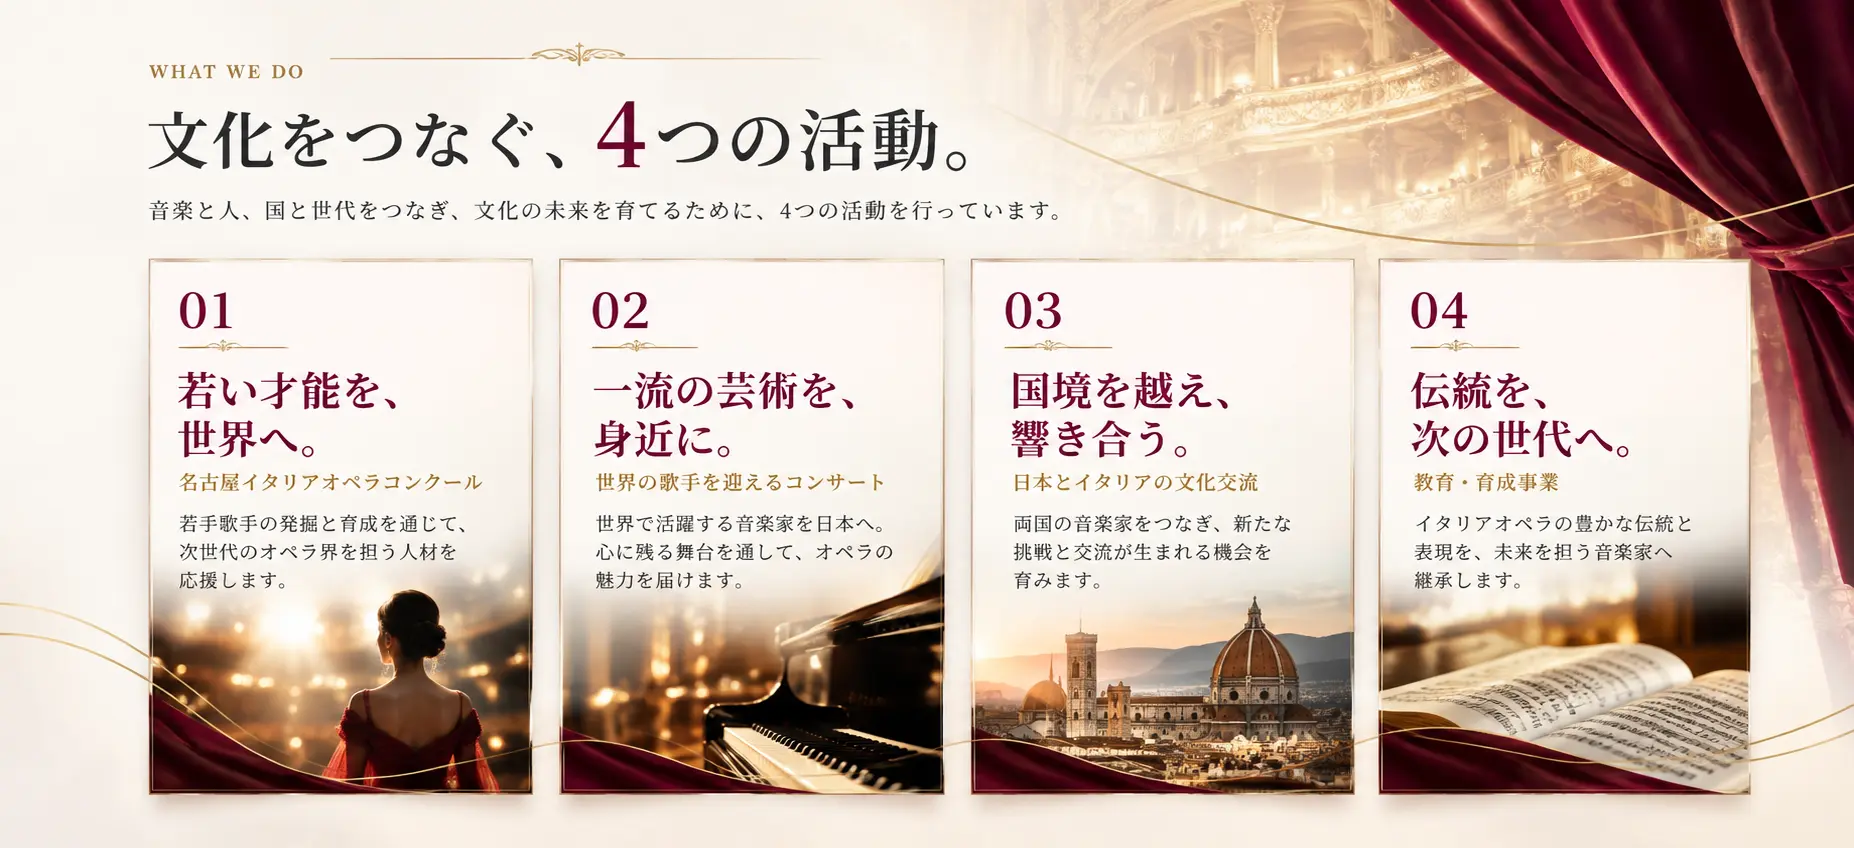
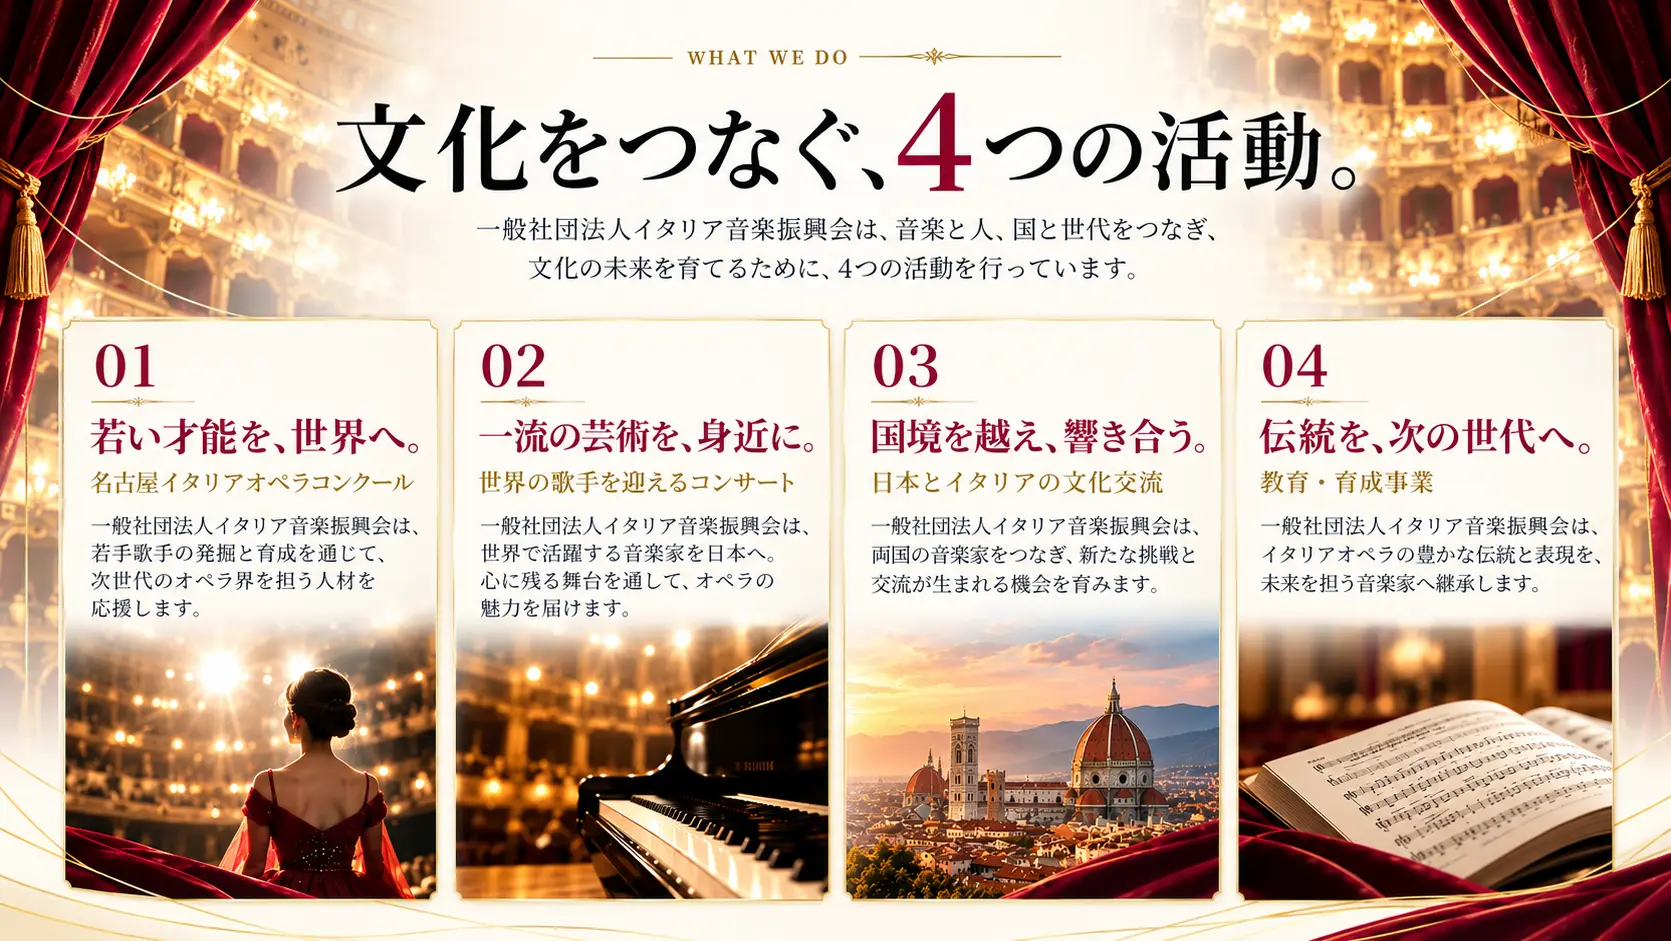
Publish initial design preview

diff --git a/index.html b/index.html
@@ -4,7 +4,7 @@
 <header><a class="brand" href="#"><span class="emblem">I</span><span><small>一般社団法人</small>イタリア音楽振興会</span></a><nav aria-label="メインナビゲーション"><a href="#vision">私たちの想い</a><a href="#concert">特別公演</a><a href="#partners">協賛プラン</a><a class="nav-cta" href="#contact">お問い合わせ <span>↗</span></a></nav></header>
 <main><section class="poster-hero" aria-labelledby="hero-title"><h1 id="hero-title" class="sr-only">企業文化支援パートナー募集｜第4回名古屋イタリアオペラコンクール関連特別公演 ベルカント・オペラ ガラコンサート</h1><picture><source media="(min-width: 768px)" srcset="assets/fv-desktop.webp?v=33" width="1672" height="941"><img src="assets/fv-mobile.webp?v=33" width="1122" height="1402" fetchpriority="high" alt="企業文化支援パートナー募集。第4回名古屋イタリアオペラコンクール関連特別公演、ベルカント・オペラ ガラコンサート。2027年2月23日（火・祝）、しらかわホール（名古屋）。"></picture></section><div class="hero-actions"><a class="button burgundy" href="#partners">協賛プランを見る <span>↓</span></a><a class="button outline" href="#contact">協賛について相談する <span>↗</span></a></div><section id="concert" class="concert"><div class="wrap concert-grid"><div class="concert-editorial"><figure class="concert-photo"><img src="assets/gallery-01.webp" width="1600" height="1067" alt="過去の活動での演奏風景"><figcaption>過去の公演より</figcaption></figure><div class="concert-photo-caption"><p class="eyebrow">CULTURE CONNECTS US</p><p>この舞台の感動を、<br><strong>ともに。</strong></p></div><figure class="concert-second-photo"><img src="assets/gallery-02.webp" width="1200" height="900" loading="lazy" alt="ピアノ伴奏とともに歌う、過去の演奏風景"><figcaption>過去の活動より</figcaption></figure></div><div class="concert-copy"><p class="eyebrow">THE SPECIAL STAGE</p><p class="kicker"><span>第4回名古屋イタリアオペラコンクール</span><span>関連特別公演</span></p><h2 class="concert-title"><span>ベルカント・オペラ</span><span>ガラコンサート</span></h2><div class="concert-introduction"><p class="concert-catch"><span>世界を魅了するディーヴァ、来日</span><span>ベルカントに出逢う、特別な一夜</span></p><div class="concert-description"><p>世界的ソプラノ歌手であり、名古屋イタリアオペラコンクールの審査員を務めるデジレ・ランカトーレを迎え、ベルカントの真髄をお届けします。</p><p>美しい旋律と卓越した歌唱技術が織りなす、イタリアオペラの華麗な世界をどうぞご堪能ください。</p><p>さらに、同コンクールの入賞者たちも、しらかわホールの舞台で歌声を披露。世界で活躍する歌姫と未来を担う若き才能が彩る、特別なガラコンサートです。</p></div></div><dl class="event-details"><div><dt>開催日</dt><dd><span class="event-main">2027年2月23日</span><small>（火・祝）</small></dd></div><div><dt>会場</dt><dd><span class="event-main">しらかわホール</span><small>（名古屋）</small></dd></div></dl><a class="text-link" href="https://shirakawahall.jp/" target="_blank" rel="noopener">会場の公式サイトを見る ↗</a></div></div></section>
 <section id="artist" class="artist-profile wrap" aria-labelledby="artist-title"><figure class="artist-portrait"><img src="assets/desiree-rancatore.webp" width="493" height="649" loading="lazy" alt="ソプラノ デジレ・ランカトーレのポートレート"></figure><div class="artist-biography"><p class="eyebrow">ARTIST PROFILE</p><p class="artist-voice">ソプラノ</p><h2 id="artist-title">デジレ・ランカトーレ</h2><div class="artist-bio-text"><p>イタリア、パレルモ生まれ。18歳でザルツブルク音楽祭「フィガロの結婚」にてオペラ・デビュー。その後、英国ロイヤル・オペラ、ウィーン国立歌劇場、ローマ歌劇場、チューリッヒ歌劇場、ミラノ・スカラ座等、ヨーロッパ主要歌劇場に招かれる。</p><p>パレルモ・マッシモ劇場、トリエステ・ヴェルディ劇場、ボローニャ歌劇場などで来日している。可憐な容姿とコロラトゥーラテクニックで聴衆を魅了してきたが、声の成熟とともに、ノルマなど劇的な役柄にもレパートリーを広げている。</p><p>また近年では、指導者としても熱心で、多くの優秀なオペラ歌手を輩出している。</p></div></div></section><section class="intro wrap" id="vision"><div><p class="eyebrow">OUR VISION</p><h2>一夜の感動を、<br>未来へ続く力に。</h2></div><div class="intro-copy"><p class="lead">音楽を通じて、人と文化をつなぐ。</p><p>私たちが目指すのは、一度のコンサートを成功させることだけではありません。若い音楽家が世界へ羽ばたく機会をつくり、世界で活躍する音楽家を日本に紹介し、イタリアオペラの魅力を次世代へ伝えていくことです。</p><p>企業の皆様のご支援が、音楽家の未来を拓き、日伊の文化交流を深めます。文化を育むパートナーとして、この歩みをご一緒しませんか。</p></div></section>
-<section id="activities" class="activities wrap activities-art"><picture><source media="(min-width:768px)" srcset="assets/activities-desktop.webp" width="1854" height="848"><img src="assets/activities-mobile.webp?v=32" width="814" height="1932" loading="lazy" alt=""></picture><div class="sr-only"><div class="section-heading"><p class="eyebrow">WHAT WE DO</p><h2>文化をつなぐ、4つの活動。</h2></div><div class="activity-grid"><article><span class="number">01</span><h3>若い才能を、世界へ。</h3><p class="activity-name">名古屋イタリアオペラコンクール</p><p>若手歌手の発掘と育成を通じて、次世代のオペラ界を担う人材を応援します。</p></article><article><span class="number">02</span><h3>一流の芸術を、身近に。</h3><p class="activity-name">世界の歌手を迎えるコンサート</p><p>世界で活躍する音楽家を日本へ。心に残る舞台を通して、オペラの魅力を届けます。</p></article><article><span class="number">03</span><h3>国境を越え、響き合う。</h3><p class="activity-name">日本とイタリアの文化交流</p><p>両国の音楽家をつなぎ、新たな挑戦と交流が生まれる機会を育みます。</p></article><article><span class="number">04</span><h3>伝統を、次の世代へ。</h3><p class="activity-name">教育・育成事業</p><p>イタリアオペラの豊かな伝統と表現を、未来を担う音楽家へ継承します。</p></article></div></div><p class="art-caption">※画像は活動内容を表したイメージです。</p></section>
+<section id="activities" class="activities wrap activities-art"><picture><source media="(min-width:768px)" srcset="assets/activities-desktop.webp?v=40" width="1671" height="941"><img src="assets/activities-mobile.webp?v=40" width="813" height="1933" loading="lazy" alt=""></picture><div class="sr-only"><div class="section-heading"><p class="eyebrow">WHAT WE DO</p><h2>文化をつなぐ、4つの活動。</h2></div><div class="activity-grid"><article><span class="number">01</span><h3>若い才能を、世界へ。</h3><p class="activity-name">名古屋イタリアオペラコンクール</p><p>若手歌手の発掘と育成を通じて、次世代のオペラ界を担う人材を応援します。</p></article><article><span class="number">02</span><h3>一流の芸術を、身近に。</h3><p class="activity-name">世界の歌手を迎えるコンサート</p><p>世界で活躍する音楽家を日本へ。心に残る舞台を通して、オペラの魅力を届けます。</p></article><article><span class="number">03</span><h3>国境を越え、響き合う。</h3><p class="activity-name">日本とイタリアの文化交流</p><p>両国の音楽家をつなぎ、新たな挑戦と交流が生まれる機会を育みます。</p></article><article><span class="number">04</span><h3>伝統を、次の世代へ。</h3><p class="activity-name">教育・育成事業</p><p>イタリアオペラの豊かな伝統と表現を、未来を担う音楽家へ継承します。</p></article></div></div><p class="art-caption">※画像は活動内容を表したイメージです。</p></section>
 
 <section class="support-message"><div class="wrap"><figure class="learning-photo"><img src="assets/rehearsal.webp" width="1200" height="900" loading="lazy" alt="参加者が集まって学ぶ過去の音楽活動の様子"><figcaption>過去の活動より</figcaption></figure><p class="eyebrow">YOUR SUPPORT, THEIR FUTURE</p><h2>企業の支援が、<br>次の才能の可能性を広げる。</h2><p>公演への協賛を、文化の未来への一歩に。<br>芸術に触れる機会をつくり、若い音楽家を支え、<br>日本とイタリアを結ぶ活動をともに育てていきます。</p></div></section><section class="wrap value" id="value"><div class="section-heading"><p class="eyebrow">THE VALUE OF PARTNERSHIP</p><h2>文化を支えることが、<br>企業の新しい価値になる。</h2></div><div class="value-grid"><article><img class="value-image" src="assets/value-culture.webp" width="1448" height="1086" loading="lazy" alt="楽譜を開いたグランドピアノのイメージ"><span>01 / CULTURE</span><h3>未来への文化貢献</h3><p>若い音楽家の可能性を広げ、芸術文化の発展と国際交流を支える取り組みです。</p></article><article><img class="value-image" src="assets/value-experience.webp" width="1448" height="1086" loading="lazy" alt="えんじ色の客席と舞台のイメージ"><span>02 / CONNECTION</span><h3>大切な方との鑑賞体験</h3><p>お取引先、お客様、社員の皆様と。音楽の感動を共有する、特別な交流の機会に。</p></article><article><img class="value-image" src="assets/value-communication.webp" width="1448" height="1086" loading="lazy" alt="冊子とタブレットでの文化活動の掲載イメージ"><span>03 / COMMUNICATION</span><h3>文化支援の想いを発信</h3><p>公式サイトや公演プログラムへの掲載を通して、企業の文化支援活動を伝えます。</p></article></div><p class="value-image-note">※画像はイメージです。</p></section>
 <section id="partners" class="partners"><div class="wrap"><picture class="plans-art"><source media="(min-width:641px)" srcset="assets/partnership-plans-desktop.webp?v=38" width="1672" height="941"><img src="assets/partnership-plans-mobile.webp?v=38" width="1024" height="1536" loading="lazy" alt="企業文化支援パートナーのご支援額と招待チケット。プラチナ100万円、ゴールド50万円、シルバー30万円、ブロンズ10万円、グリーン5万円。"></picture><h2 class="sr-only">協賛プランと共通特典</h2><a class="button burgundy plans-contact" href="#contact">協賛プランを選んで相談 <span>↗</span></a><p class="note">※ファンボックスの利用人数は6名です。各プランの詳細はお問い合わせください。</p><div class="benefits"><h3>パートナー特典</h3><ul><li>公式サイトへの企業名・ロゴ掲載</li><li>公演プログラムへの企業名・ロゴ掲載</li><li>協賛金額に応じた広告掲載</li><li>上位パートナーへの特別な紹介</li><li>その他関連コンサートへのご招待</li></ul></div></div></section>
